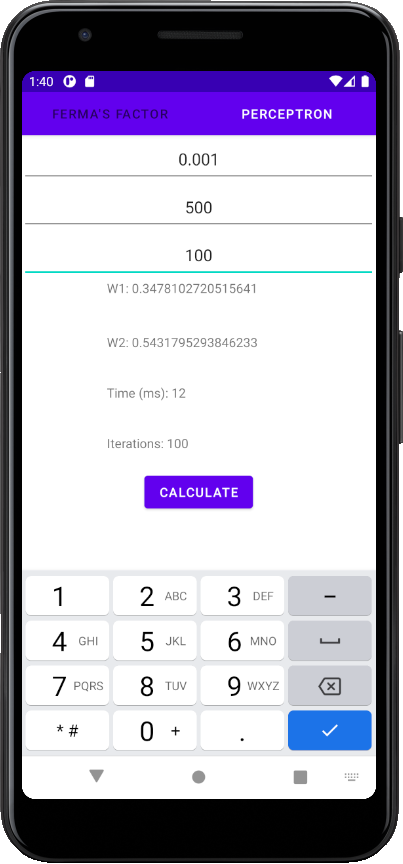
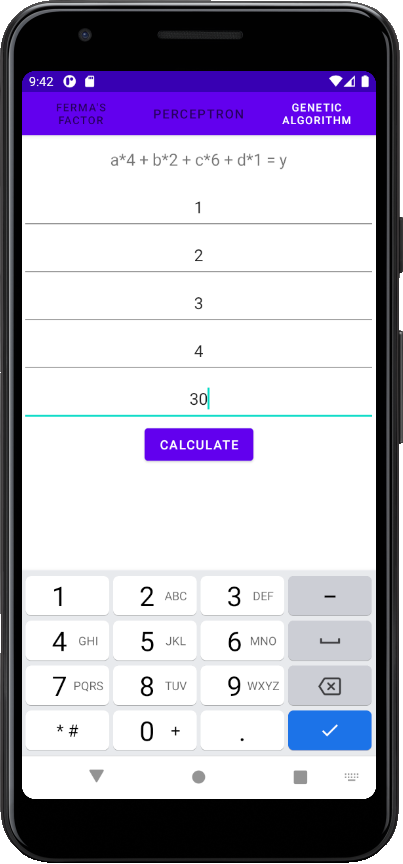
feat(3.3): init

diff --git a/app/src/main/java/com/example/mrills/GeneticAlgorithmClass.kt b/app/src/main/java/com/example/mrills/GeneticAlgorithmClass.kt
@@ -1,0 +1,89 @@
+package com.example.mrills
+import kotlin.math.abs
+import kotlin.random.Random
+
+class GeneMachine(a: Int, b: Int, c: Int, d: Int, y: Int) {
+    private val ca = a
+    private val cb = b
+    private val cc = c
+    private val cd = d
+    private val result = y
+    private val startPopulation = MutableList<MutableList<Int>>(4){ mutableListOf() }
+    private var population: MutableList<MutableList<Int>> = mutableListOf()
+    private var fitness = Array(4){0}
+    private val childPopulation = MutableList<MutableList<Int>>(4){ mutableListOf() }
+
+    fun solve(): Array<Int> {
+        startPopulationInit()
+        lifecycle()
+        while (!fitness.contains(0) && population.toTypedArray() contentEquals childPopulation.toTypedArray()
+        ) {
+            startPopulationInit()
+            lifecycle()
+        }
+        fitness.forEachIndexed{i, v ->
+            if (v == 0) return population[i].toTypedArray()
+        }
+        return arrayOf()
+    }
+
+    private fun startPopulationInit() {
+        for (i in 0 until 4) {
+            startPopulation[i] = MutableList(4) {Random.nextInt(1, 8)}
+        }
+    }
+
+    private fun lifecycle() {
+        var iter = 0
+        this.calcFitness()
+        while (!this.fitness.contains(0) && iter < 10) {
+            this.calcFitness()
+            this.runRoll()
+            this.crossover()
+            iter++
+        }
+    }
+
+    private fun calcFitness() {
+        if (this.population.isEmpty()) {
+            this.population = this.startPopulation
+        }
+        for (i in 0 until 4) {
+            this.fitness[i] = this.fitnessOf(this.population[i])
+        }
+    }
+
+    private fun fitnessOf(pop: MutableList<Int>): Int {
+        val total: Int = pop[0] * this.ca + pop[1] * this.cb + pop[2] * this.cc + pop[3] * this.cd
+        return abs(this.result - total)
+    }
+
+    private fun runRoll() {
+        var rulet = 0.00
+        this.fitness.forEach { rulet += 1 / it }
+        val rollChance = Array(4) { i -> 1 / fitness[i] / rulet}
+        val rollCircle = Array(4) {0.0}
+        rollCircle[0] = rollChance[0]
+        for (i in 1 until 4) {
+            rollCircle[i] = rollCircle[i - 1] + rollChance[i]
+        }
+        for (i in 0 until 4) {
+            var childIndex = 0
+            for (k in 0 until 4) {
+                if (Random.nextDouble(1.0) >= rollCircle[k]) {
+                    childIndex = k
+                }
+            }
+            childPopulation[i] = population[childIndex]
+        }
+    }
+
+    private fun crossover() {
+        for (p in 0 until 4) {
+            population[p] = MutableList(4) { i ->
+                val pIndex = if(i<2) p else if(p%2==0) p+1 else p-1
+                childPopulation[pIndex][i]
+            }
+        }
+    }
+}

diff --git a/app/src/main/java/com/example/mrills/GeneticAlgorithm.kt b/app/src/main/java/com/example/mrills/GeneticAlgorithm.kt
@@ -1,0 +1,48 @@
+package com.example.mrills
+
+import android.os.Bundle
+import androidx.fragment.app.Fragment
+import android.view.LayoutInflater
+import android.view.View
+import android.view.ViewGroup
+import android.widget.Button
+import android.widget.EditText
+import android.widget.TextView
+
+class GeneticAlgorithm : Fragment() {
+    override fun onCreateView(
+            inflater: LayoutInflater, container: ViewGroup?,
+            savedInstanceState: Bundle?
+    ): View? {
+        val workView: View = inflater.inflate(R.layout.fragment_genetic_algorithm, container, false)
+
+        val btnCalc: Button = workView.findViewById(R.id.btnCalc)
+        btnCalc.setOnClickListener {
+            val tvEquation: TextView = workView.findViewById(R.id.tvEquation)
+            val etA: EditText = workView.findViewById(R.id.etA)
+            val etB: EditText = workView.findViewById(R.id.etB)
+            val etC: EditText = workView.findViewById(R.id.etC)
+            val etD: EditText = workView.findViewById(R.id.etD)
+            val etY: EditText = workView.findViewById(R.id.etY)
+
+            val a = etA.text.toString().toInt()
+            val b = etB.text.toString().toInt()
+            val c = etC.text.toString().toInt()
+            val d = etD.text.toString().toInt()
+            val y = etY.text.toString().toInt()
+
+            val result = GeneMachine(a, b, c, d, y).solve()
+            if(result.isEmpty()) {
+                tvEquation.text = "No solution found"
+            } else {
+                tvEquation.text = "a*${result[0]} + b*${result[1]} + c*${result[2]} + d*${result[3]} = y"
+            }
+        }
+        return workView
+    }
+
+    companion object {
+        @JvmStatic
+        fun newInstance() = GeneticAlgorithm()
+    }
+}

diff --git a/app/src/main/java/com/example/mrills/ui/main/SectionsPagerAdapter.kt b/app/src/main/java/com/example/mrills/ui/main/SectionsPagerAdapter.kt
@@ -5,12 +5,14 @@ import androidx.fragment.app.Fragment
 import androidx.fragment.app.FragmentManager
 import androidx.fragment.app.FragmentPagerAdapter
 import com.example.mrills.FermaFraction
+import com.example.mrills.GeneticAlgorithm
 import com.example.mrills.Perceptron
 import com.example.mrills.R
 
 private val TAB_TITLES = arrayOf(
     "Ferma's Factor",
-    "Perceptron"
+    "Perceptron",
+    "Genetic Algorithm"
 )
 
 /**
@@ -24,6 +26,7 @@ class SectionsPagerAdapter(private val context: Context, fm: FragmentManager) :
         return when (position) {
             0 -> FermaFraction.newInstance()
             1 -> Perceptron.newInstance()
+            2 -> GeneticAlgorithm.newInstance()
             else -> PlaceholderFragment.newInstance(position + 1)
         }
     }
@@ -33,7 +36,6 @@ class SectionsPagerAdapter(private val context: Context, fm: FragmentManager) :
     }
 
     override fun getCount(): Int {
-        // Show 2 total pages.
-        return 2
+        return 3
     }
 }

diff --git a/README.md b/README.md
@@ -1,47 +1,88 @@
-### Lab 3.2 Protocol
+### Lab 3.3 Protocol
 ```kotlin
-class PerceptronClass {
-    var p: Int = 4
-    var lRate: Double = 0.001
+class GeneMachine(a: Int, b: Int, c: Int, d: Int, y: Int) {
+    private val ca = a
+    private val cb = b
+    private val cc = c
+    private val cd = d
+    private val result = y
+    private val startPopulation = MutableList<MutableList<Int>>(4){ mutableListOf() }
+    private var population: MutableList<MutableList<Int>> = mutableListOf()
+    private var fitness = Array(4){0}
+    private val childPopulation = MutableList<MutableList<Int>>(4){ mutableListOf() }
 
-    var w1: Double = 0.0
-    var w2: Double = 0.0
-
-    private val bias: Int = 1
-
-    private fun yCalc(x: Double, y: Double): Double {
-        return this.w1 * x + this.w2 * y + this.bias
-    }
-
-    private fun deltaCalc(y: Double): Double {
-        return this.p.toDouble() - y
-    }
-
-    private fun wCalc(x: Double, y: Double, delta: Double) {
-        this.w1 += delta * x * this.lRate;
-        this.w2 += delta * y * this.lRate;
-    }
-
-    data class PerceptronClassResult(val w1: Double, val w2: Double, val time: Long, val iter: Int)
-    fun learn(input: Array<Pair<Double, Double>>, maxIterations: Int, maxTime: Long): PerceptronClassResult{
-        var iterations: Int = 0
-
-        val startTime: Long = System.currentTimeMillis()
-        var currentTime: Long = System.currentTimeMillis()
-        val deadlineTime: Long = startTime + maxTime
-
-        while (maxIterations > iterations && currentTime < deadlineTime) {
-            input.forEach() lit@{ p ->
-                val y = this.yCalc(p.first, p.second)
-                val delta = this.deltaCalc(y)
-                this.wCalc(p.first, p.second, delta)
-            }
-
-            currentTime = System.currentTimeMillis()
-            iterations++
+    fun solve(): Array<Int> {
+        startPopulationInit()
+        lifecycle()
+        while (!fitness.contains(0) && population.toTypedArray() contentEquals childPopulation.toTypedArray()
+        ) {
+            startPopulationInit()
+            lifecycle()
         }
-        currentTime = System.currentTimeMillis()
-        return PerceptronClassResult(this.w1, this.w2, currentTime - startTime, iterations)
+        fitness.forEachIndexed{i, v ->
+            if (v == 0) return population[i].toTypedArray()
+        }
+        return arrayOf()
+    }
+
+    private fun startPopulationInit() {
+        for (i in 0 until 4) {
+            startPopulation[i] = MutableList(4) {Random.nextInt(1, 8)}
+        }
+    }
+
+    private fun lifecycle() {
+        var iter = 0
+        this.calcFitness()
+        while (!this.fitness.contains(0) && iter < 10) {
+            this.calcFitness()
+            this.runRoll()
+            this.crossover()
+            iter++
+        }
+    }
+
+    private fun calcFitness() {
+        if (this.population.isEmpty()) {
+            this.population = this.startPopulation
+        }
+        for (i in 0 until 4) {
+            this.fitness[i] = this.fitnessOf(this.population[i])
+        }
+    }
+
+    private fun fitnessOf(pop: MutableList<Int>): Int {
+        val total: Int = pop[0] * this.ca + pop[1] * this.cb + pop[2] * this.cc + pop[3] * this.cd
+        return abs(this.result - total)
+    }
+
+    private fun runRoll() {
+        var rulet = 0.00
+        this.fitness.forEach { rulet += 1 / it }
+        val rollChance = Array(4) { i -> 1 / fitness[i] / rulet}
+        val rollCircle = Array(4) {0.0}
+        rollCircle[0] = rollChance[0]
+        for (i in 1 until 4) {
+            rollCircle[i] = rollCircle[i - 1] + rollChance[i]
+        }
+        for (i in 0 until 4) {
+            var childIndex = 0
+            for (k in 0 until 4) {
+                if (Random.nextDouble(1.0) >= rollCircle[k]) {
+                    childIndex = k
+                }
+            }
+            childPopulation[i] = population[childIndex]
+        }
+    }
+
+    private fun crossover() {
+        for (p in 0 until 4) {
+            population[p] = MutableList(4) { i ->
+                val pIndex = if(i<2) p else if(p%2==0) p+1 else p-1
+                childPopulation[pIndex][i]
+            }
+        }
     }
 }
 
@@ -53,5 +94,3 @@ class PerceptronClass {
 ![](./example2.png)
 
 ![](./example3.png)
-
-![](./example4.png)
